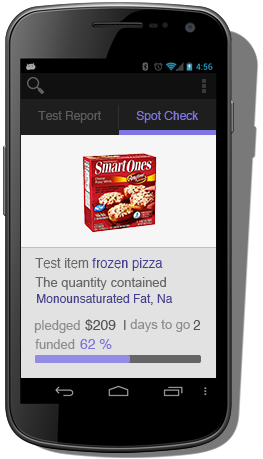
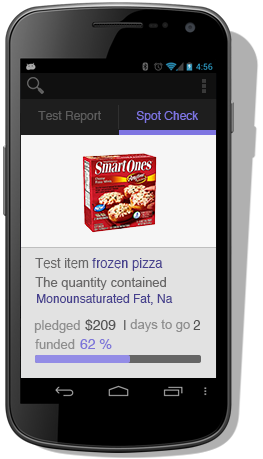
Add phone ui 03 image at home slider
as title.
also modify the speed of ui animation.

Changed region(s): [[0.1521, 0.061, 1.0, 1.0], [0.0, 0.061, 0.0304, 0.915], [0.0304, 0.915, 0.0608, 0.9455]]

diff --git a/index.html b/index.html
@@ -105,6 +105,7 @@
 	<ul>
     <li><img src="img/phone_ui01.png" width="263" height="460" /></li>
     <li><img src="img/phone_ui02.png" width="263" height="460" /></li>
+	<li><img src="img/phone_ui03.png" width="263" height="460" /></li>
   </ul></div><!-- \.device-slider-->
   <div class="clearfix"></div>
                      </div><!-- \.slider-->
@@ -112,6 +113,7 @@
                     <ul>
                       <li>1</li>
                       <li>2</li>
+                      <li>3</li>
                         </ul></div><!-- \.slider-num-->
                         <div class="clearfix"></div>
                  
@@ -120,7 +122,6 @@
 		</div>
 		
 		<div class="section" id="whatwedo">
-			
 			<div class="row row-col-lg-6-fix">
 				<div class="col-lg-6">
 					<div class="what-con">
@@ -168,8 +169,7 @@
 		</div>
 		
 		<div class="section text-center" id="usertest">
-			
-            <h2>We can tell<br>Users care about what they eat.</h2>
+			<h2>We can tell<br>Users care about what they eat.</h2>
             <h3>We had interviewed 20 customers in two different supermarkets, 18 of them were willing to have the food test results with payment. The acceptable price ranged from $20 to $200.
 All of the inquired customers cared about the food they eat everyday. Is it safe? Is it real? Is it enough nutrition to meet their daily demand?</h3>
 			<div class="row" style="margin-top: 30px;">
@@ -186,7 +186,6 @@ All of the inquired customers cared about the food they eat everyday. Is it safe
 		</div>
 		
 		<div class="section" id="value">
-			
 			<div class="row">
 				<div class="col-lg-7" style="margin:30px 0 0 30px;">
 					<h2>Food Recommendation Engine</h2>
@@ -204,7 +203,6 @@ All of the inquired customers cared about the food they eat everyday. Is it safe
 		</div>
 		
 		<div class="section text-center" id="team">
-			
 			<h2>We are the people who want to put safe food in our mouths.</h2>
 			<div class="row">
 				<div class="col-lg-3">

diff --git a/css/slider.js b/css/slider.js
@@ -13,13 +13,13 @@ $(function(){
 			NN=0;
 			MOVE=0;
 		}
-		$(".device-slider ul").animate({top:MOVE},800,"easeInOutBack");
+		$(".device-slider ul").animate({top:MOVE},1200,"easeInOutBack");
 		$(".slider-num li").removeClass().eq(NN).addClass("num-hover");
 	}
 	
-	var TT = setInterval(GOGO,3000);
+	var TT = setInterval(GOGO,3400);
 	
-	$(".slider").hover(function(){ clearInterval(TT);}, function(){TT = setInterval(GOGO,3000);});
+	$(".slider").hover(function(){ clearInterval(TT);}, function(){TT = setInterval(GOGO,4000);});
 	
 	$(".slider-num li").click( function(){
 		NN = $(this).index();

diff --git a/css/openeats_theme.css b/css/openeats_theme.css
@@ -158,7 +158,7 @@ div.video {
 .device-slider ul{ list-style:none; margin:0; padding:0; position:absolute;}
 .device-slider li{}
 .device-slider li img{ vertical-align:bottom; border:none;}
-.slider-num{ width:46px; margin:0 auto; overflow:hidden;}
+.slider-num{ width:60px; margin:0 auto; overflow:hidden;}
 .slider-num ul{
     list-style:none; 
     margin:0; 
